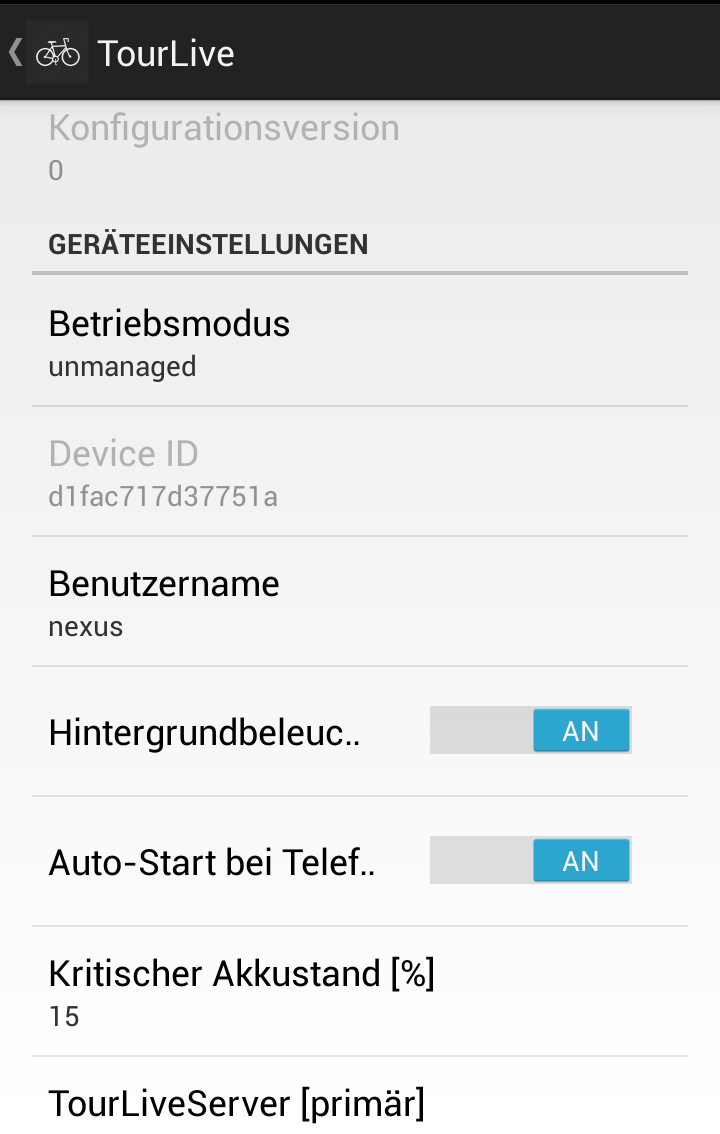
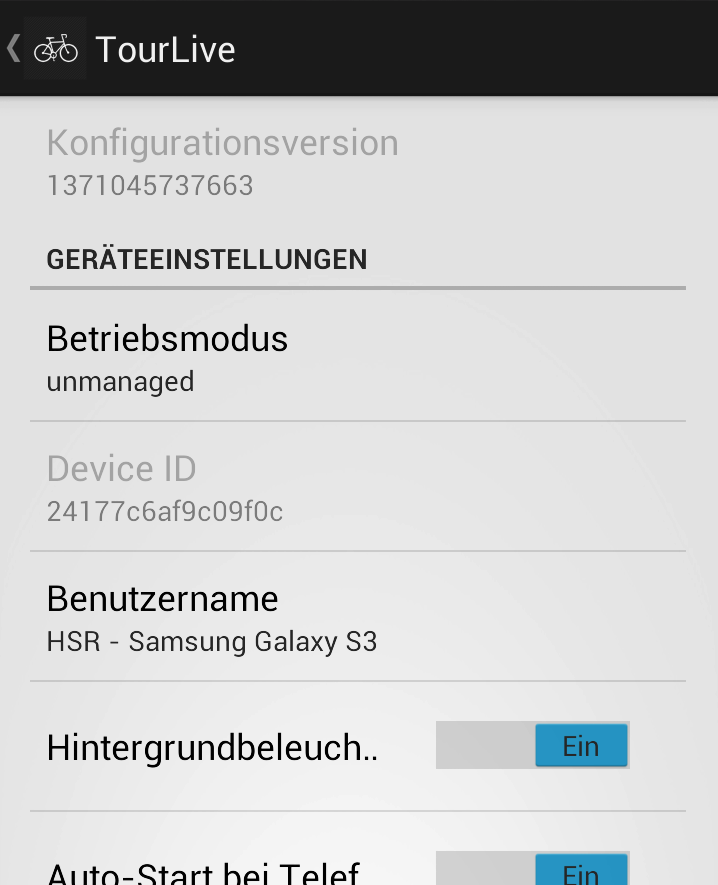
40aufnahmesystem done

diff --git a/chapter/40aufnahmesystem.tex b/chapter/40aufnahmesystem.tex
@@ -96,7 +96,46 @@ Das Domain Model des Aufnahmesystems setzt sich aus den Domain Models des TourLi
 \end{figure}
 
 \subsubsection{Paketdiagramm}
-%TODO Paketdiagramm
+Die TourLive Applikation hat folgende Paketstruktur. Als Grundstruktur wurde analog zum TourLive Server und dem Device Management Server \textit{ch.hsr.ba.tourlive} verwendet. Die TourLive Applikation verwendet zusätzlich die Subkategorie \textit{.android} sowie folgende applikationsspezifische Struktur:
+
+\begin{longtable}{p{5.0cm} | p{7.1cm}}
+\textbf{Paket} & \textbf{Inhalt} \\
+\hline \hline 
+. & enthält die initialisierende TourLiveApplication.java Klasse sowie Config.java \\ 
+\hline 
+.adapter & enthält Daten-Adapter um Listen darzustellen \\ 
+\hline 
+.adapter.row & enthält individuelle Listen Einträge \\ 
+\hline 
+.domain & enthält projektübergreifende Domain Klassen \\ 
+\hline 
+.domain.devmgmtsrv & enthält Device Management Server spezifische Domain Klassen \\ 
+\hline 
+.domain.devmgmtsrv.enums & enthält Device Management Service spezifische Enums \\ 
+\hline 
+.domain.tourliveserver & enthält TourLive Server spezifische Domain Klassen \\ 
+\hline 
+.domain.tourliveserver.enums & enthält TourLive Server spezifische Enums \\  
+\hline 
+.helper & enthält Hilfsklassen zur Berechnung von Werten \\ 
+\hline 
+.listener & enthält System Event-Listener \\ 
+\hline 
+.receiver & enthält Broadcast Receiver \\ 
+\hline 
+.service & enthält sämtliche Services \\ 
+\hline 
+.task & enthält sämtliche AsyncTasks \\ 
+\hline 
+.task.timer & enthält sämtliche TimerTasks \\ 
+\hline 
+.view & enthält Activities und Fragments \\ 
+\hline 
+.view.helper & enthält individuelle Dialoge \\ 
+\hline 
+.view.helptext & enthält die Hilfstext Klassen \\ 
+\hline 
+\end{longtable} 
 
 \subsection{Architekturentscheide}
 
@@ -221,7 +260,41 @@ Der Footer zeigt den Status der App. Die Symbole werden je nach Gesundheitszusta
 
 Mit dem Recording Button links kann die Aufnahme gestartet und gestoppt werden. Der Button ist nur aktiviert, wenn der Aufnahmemodus auf Manuell gesetzt ist.
 
-\pagebreak
+\paragraph{Einstellungen}
+\begin{figure}[H]
+	\centering
+	\includegraphics[width=60mm]{images/android/settings.png}
+	\caption{Aufnahmesystem Einstellungen}
+\end{figure}
+
+Der oben abgebildete Screenshot zeigt einen Ausschnitt der Aufnahmesystemeinstellungen. Sämtliche Einstellungen können auch am Device Management Server verwaltet werden und werden regelmässig synchronisiert. Folgende Einstellungen sind möglich:
+
+\begin{itemize}
+	\item Konfigurationsversion (read-only)
+	\item Betriebsmodus (managed / unmanaged)
+	\item Device ID (read-only)
+	\item Benutername (String)
+	\item Hintergrundbeleichtung (on / off)
+	\item Auto-Start bei Gerätestart (on / off)
+	\item Kritischer Akku-Stand (0 - 100 \%)
+	\item TourLive Server primär (String)
+	\item TourLive Server sekundär (String)
+	\item Device Management Server primär (String)
+	\item Aufnamemodus (manuell, strombasiert, ferngesteuert, zeitbasiert)
+	\item Startzeit (DateTimePicker - nur bei Aufnahmemodus zeitbasiert)
+	\item Endzeit (DateTimePicker - nur bei Aufnahmemodus zeitbasiert)
+	\item Datenübertragunsintervall (Integer)
+	\item Kamera automatisch ausrichten (on / off)
+	\item Kamera (front / back)
+	\item Streamingmodus (Bilder / Videos / Nichts)
+	\item Bildauflösung (320x240, 640x480, 1280x960, 1600x1200)
+	\item Bildübertragunsintervall (Integer)
+	\item Videoauflösung (176x144, 720x480, 1280x720)
+	\item Renndistanzkorrektur (Integer)
+\end{itemize}
+
+Es ist ausserdem möglich sämtliche lokal gespeicherten Etappen und Positionsdaten zu löschen, sämtliche Bilder und Videodaten zu löschen und die Telefonnummer beim Wechsel der SIM-Karte anzupassen.
+
 \subsection{Berechtigungen}
 Das Starten einer Android Applikation erfordert je nach Funktionalität der Applikation bestimmte Systemberechtigungen, die bei der Installation \textit{Akzeptiert} werden müssen.
 \begin{figure}[H]
